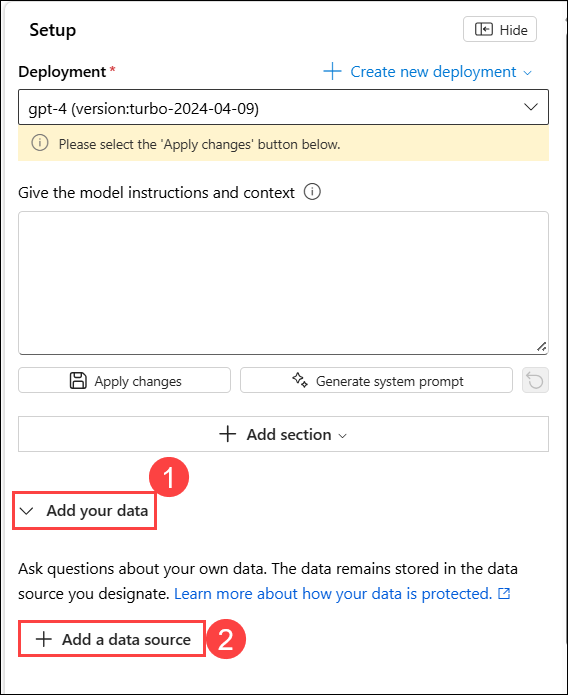
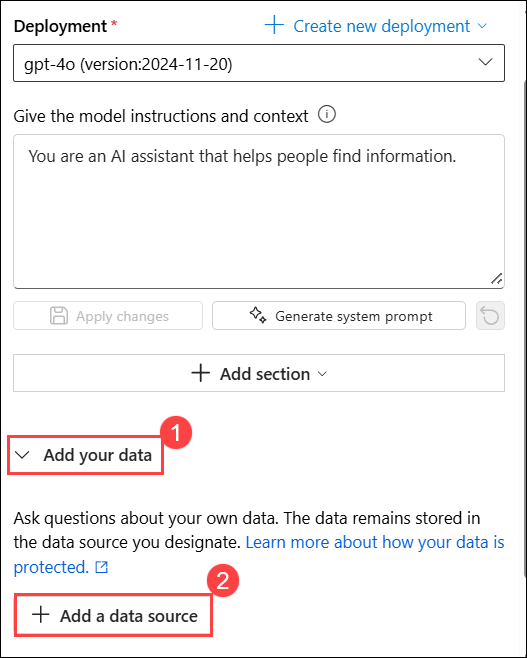
Updated

diff --git a/Instructions/exercise1-split.md b/Instructions/exercise1-split.md
@@ -2,7 +2,7 @@
 
 ## Overview
 
-In this exercise, you will learn how to ingest data into a system powered by Azure AI tools and preprocess it using GPT-4 Turbo and text embedding models. The exercise involves connecting a Blob Storage to Azure AI Studio, where various data formats (text, images, and tables) have been uploaded. You will use these files to create vectorized indexes, which will be generated using advanced AI models. After that, you will navigate to Azure AI Search to review the creation and structure of these indexes, ensuring that the data has been successfully ingested and preprocessed.
+In this exercise, you will learn how to ingest data into a system powered by Azure AI tools and preprocess it using GPT-4o and text embedding models. The exercise involves connecting a Blob Storage to Azure AI Studio, where various data formats (text, images, and tables) have been uploaded. You will use these files to create vectorized indexes, which will be generated using advanced AI models. After that, you will navigate to Azure AI Search to review the creation and structure of these indexes, ensuring that the data has been successfully ingested and preprocessed.
 
 ## Objectives
 
@@ -50,7 +50,7 @@ In this task, you will connect Blob Storage as a data source in Azure AI Studio'
 
    ![](../media/21052025(5).png)
 
-   > **gpt-4:** GPT-4 Turbo is a powerful variant of the GPT-4 model with enhanced capabilities for both text and image analysis. It can process and understand images alongside text, allowing for tasks like image captioning, object recognition, and visual question answering, making it ideal for multimodal applications.
+   > **gpt-4o:** GPT-4o is an advanced multimodal model designed to seamlessly handle both text and image inputs with high accuracy and efficiency. It delivers faster responses, improved reasoning, and enhanced visual understanding capabilities, supporting tasks such as image analysis, caption generation, object detection, and complex multimodal interactions. Its balanced performance and versatility make it ideal for a wide range of real-world applications.
 
    > **text-embedding-ada-002:** A text embedding model converts text into a numerical representation (vector), capturing the semantic meaning of the content. These embeddings allow for efficient similarity searches and can be used to compare, cluster, or retrieve relevant information from large text datasets.
 
